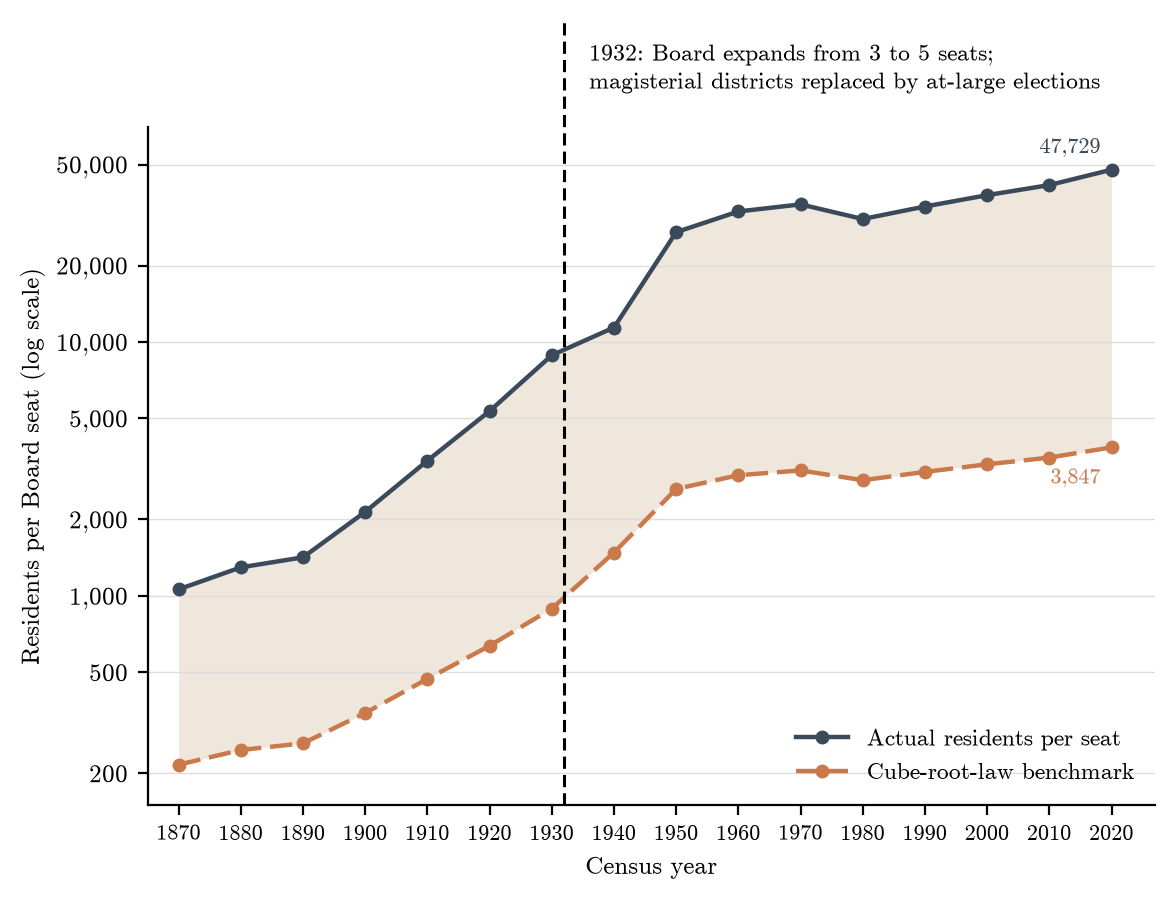
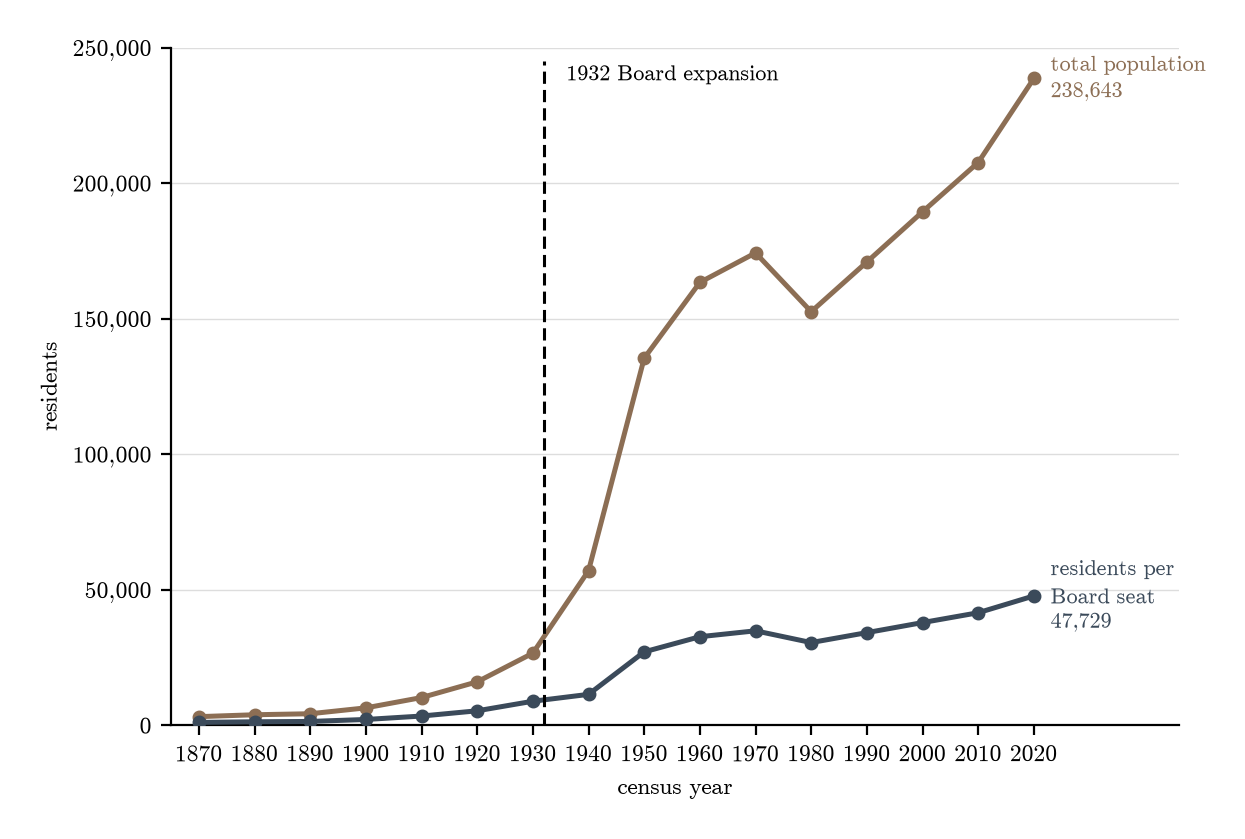
residents_per_seat: the plain series, without the cube-root benchmark
Two series on one linear axis, population and residents per seat, each
labelled at its own end with its final value. No legend: Urban's guide
prefers direct labels on a line chart where the lines allow it, and two
series allow it.

The cube-root-law benchmark is dropped. It was descriptive rather than
normative - Taagepera observed that assemblies sit near the cube root of
population, he did not argue they should - and its reference class was
national parliaments, which Arlington is not in. As drawn it implied a
62-member Board. Whether a comparison belongs anywhere in the report is
open; peer jurisdictions would be the right reference class for one.

A second y-axis was considered and rejected: the Board held three seats
before 1932 and five after, so no single right-hand scale is correct for
the whole series, and picking one decides which era looks like the
exception.

diff --git a/code/analysis/residents_per_seat.py b/code/analysis/residents_per_seat.py
@@ -1,54 +1,54 @@
-"""Residents per Board seat against the cube-root-law benchmark, 1870-2020.
+"""Residents and residents per Board seat, 1870-2020 -> figures/residents_per_seat.pdf, .png
 
-The benchmark is population divided by the cube root of population - the
-residents per seat that would obtain if the Board's size followed the
-cube-root law. The log axis is necessary because the benchmark is roughly a
-tenth of the actual figure; a linear axis would flatten it.
+Two series on one linear axis. Both are counts of people, so the vertical
+distance between them means the same thing everywhere on the page - which a
+second y-axis would not give: the Board held three seats before 1932 and five
+after, so no single right-hand scale is right for the whole series, and the
+choice of one would decide which era looks like the exception.
+
+Levels, not logs. The cube-root-law benchmark this figure used to carry is in
+the history of this file; whether it belongs anywhere in the report is open,
+and the reference class - national parliaments - is the objection to it.
+
+Each line is named at its own end with its final value, so the figure needs no
+legend and no axis label repeating what the lines already say.
 """
 import pandas as pd
 import matplotlib.pyplot as plt
-from matplotlib.ticker import FixedLocator, FuncFormatter, NullLocator
+from matplotlib.ticker import FuncFormatter
 
 import files
 import style
 
-style.apply(legend_fontsize=8.5)
+style.apply()
 
-d = pd.read_csv(files.RESIDENTS)[
-    ["year", "total", "board_seats", "residents_per_seat", "cube_root_resident_ratio"]
-].dropna().reset_index(drop=True)
-d.columns = ["year", "pop", "seats", "rps", "benchmark"]
+d = pd.read_csv(files.RESIDENTS)[["year", "total", "residents_per_seat"]].dropna()
+d.columns = ["year", "pop", "rps"]
+last = d.iloc[-1]
+
+POP = "#8C6E54"
 
 fig, ax = plt.subplots(figsize=style.PER_SEAT)
-ax.fill_between(d.year, d.benchmark, d.rps, color=style.GAP, lw=0, zorder=1)
+for col, colr in (("pop", POP), ("rps", style.ACTUAL)):
+    ax.plot(d.year, d[col], color=colr, lw=1.8, marker="o", ms=4, zorder=3)
 
-for col, colr, ls, lab in [("rps", style.ACTUAL, "-", "Actual residents per seat"),
-                           ("benchmark", style.BENCHMARK, (0, (5, 2)), "Cube-root-law benchmark")]:
-    ax.plot(d.year, d[col], color=colr, ls=ls, lw=1.6, marker="o", ms=4, label=lab, zorder=3)
-
-ax.set_yscale("log")
-ax.set_ylim(150, 70000); ax.set_xlim(1865, 2027)
-ax.yaxis.set_major_locator(FixedLocator([200, 500, 1000, 2000, 5000, 10000, 20000, 50000]))
-ax.yaxis.set_minor_locator(NullLocator())
+# Room on the right for the end labels, which sit outside the data.
+ax.set_xlim(1865, 2046)
+ax.set_ylim(0, 250000)                      # a round top, rather than a bare one
+ax.set_xticks(range(1870, 2021, 10))
 ax.yaxis.set_major_formatter(FuncFormatter(lambda v, _: f"{int(v):,}"))
-ax.set_xticks(range(1870, 2021, 10), minor=False)
-ax.tick_params(axis="x", labelsize=8)
-ax.set_ylabel("Residents per Board seat (log scale)"); ax.set_xlabel("Census year")
-ax.grid(axis="y", color=style.GRID, lw=0.5, zorder=0)
+ax.set_ylabel("residents"); ax.set_xlabel("census year")
+ax.grid(axis="y", color=style.GRID, lw=0.5, zorder=0); ax.set_axisbelow(True)
 style.despine(ax)
 
-last = d.iloc[-1]
-ax.annotate(f"{int(round(last.rps)):,}", (last.year, last.rps), xytext=(-4, 6),
-            textcoords="offset points", ha="right", fontsize=8, color=style.ACTUAL)
-ax.annotate(f"{int(round(last.benchmark)):,}", (last.year, last.benchmark), xytext=(-4, -13),
-            textcoords="offset points", ha="right", fontsize=8, color=style.BENCHMARK)
+for y, colr, name in ((last["pop"], POP, "total population"),
+                      (last.rps, style.ACTUAL, "residents per\nBoard seat")):
+    ax.text(2023, y, f"{name}\n{int(round(y)):,}", color=colr, fontsize=style.NOTE,
+            ha="left", va="center", linespacing=1.3)
 
-ax.plot([style.EXPANSION_YEAR, style.EXPANSION_YEAR], [0, 1.16],
-        transform=ax.get_xaxis_transform(), clip_on=False, zorder=5, **style.EXPANSION_LINE)
-ax.text(1936, 1.045, style.EXPANSION_NOTE, transform=ax.get_xaxis_transform(),
-        ha="left", va="bottom", fontsize=8.5, linespacing=1.3)
-
-ax.legend(loc="lower right", frameon=False, handlelength=2.2)
+ax.plot([style.EXPANSION_YEAR] * 2, [0, 0.98], transform=ax.get_xaxis_transform(),
+        clip_on=False, zorder=5, **style.EXPANSION_LINE)
+ax.text(1936, 0.975, style.EXPANSION_NOTE, transform=ax.get_xaxis_transform(),
+        ha="left", va="top", fontsize=style.NOTE)
 
 files.save(fig, "residents_per_seat")
-print(d.assign(ratio=(d.rps / d.benchmark).round(1)).round(0).to_string())
